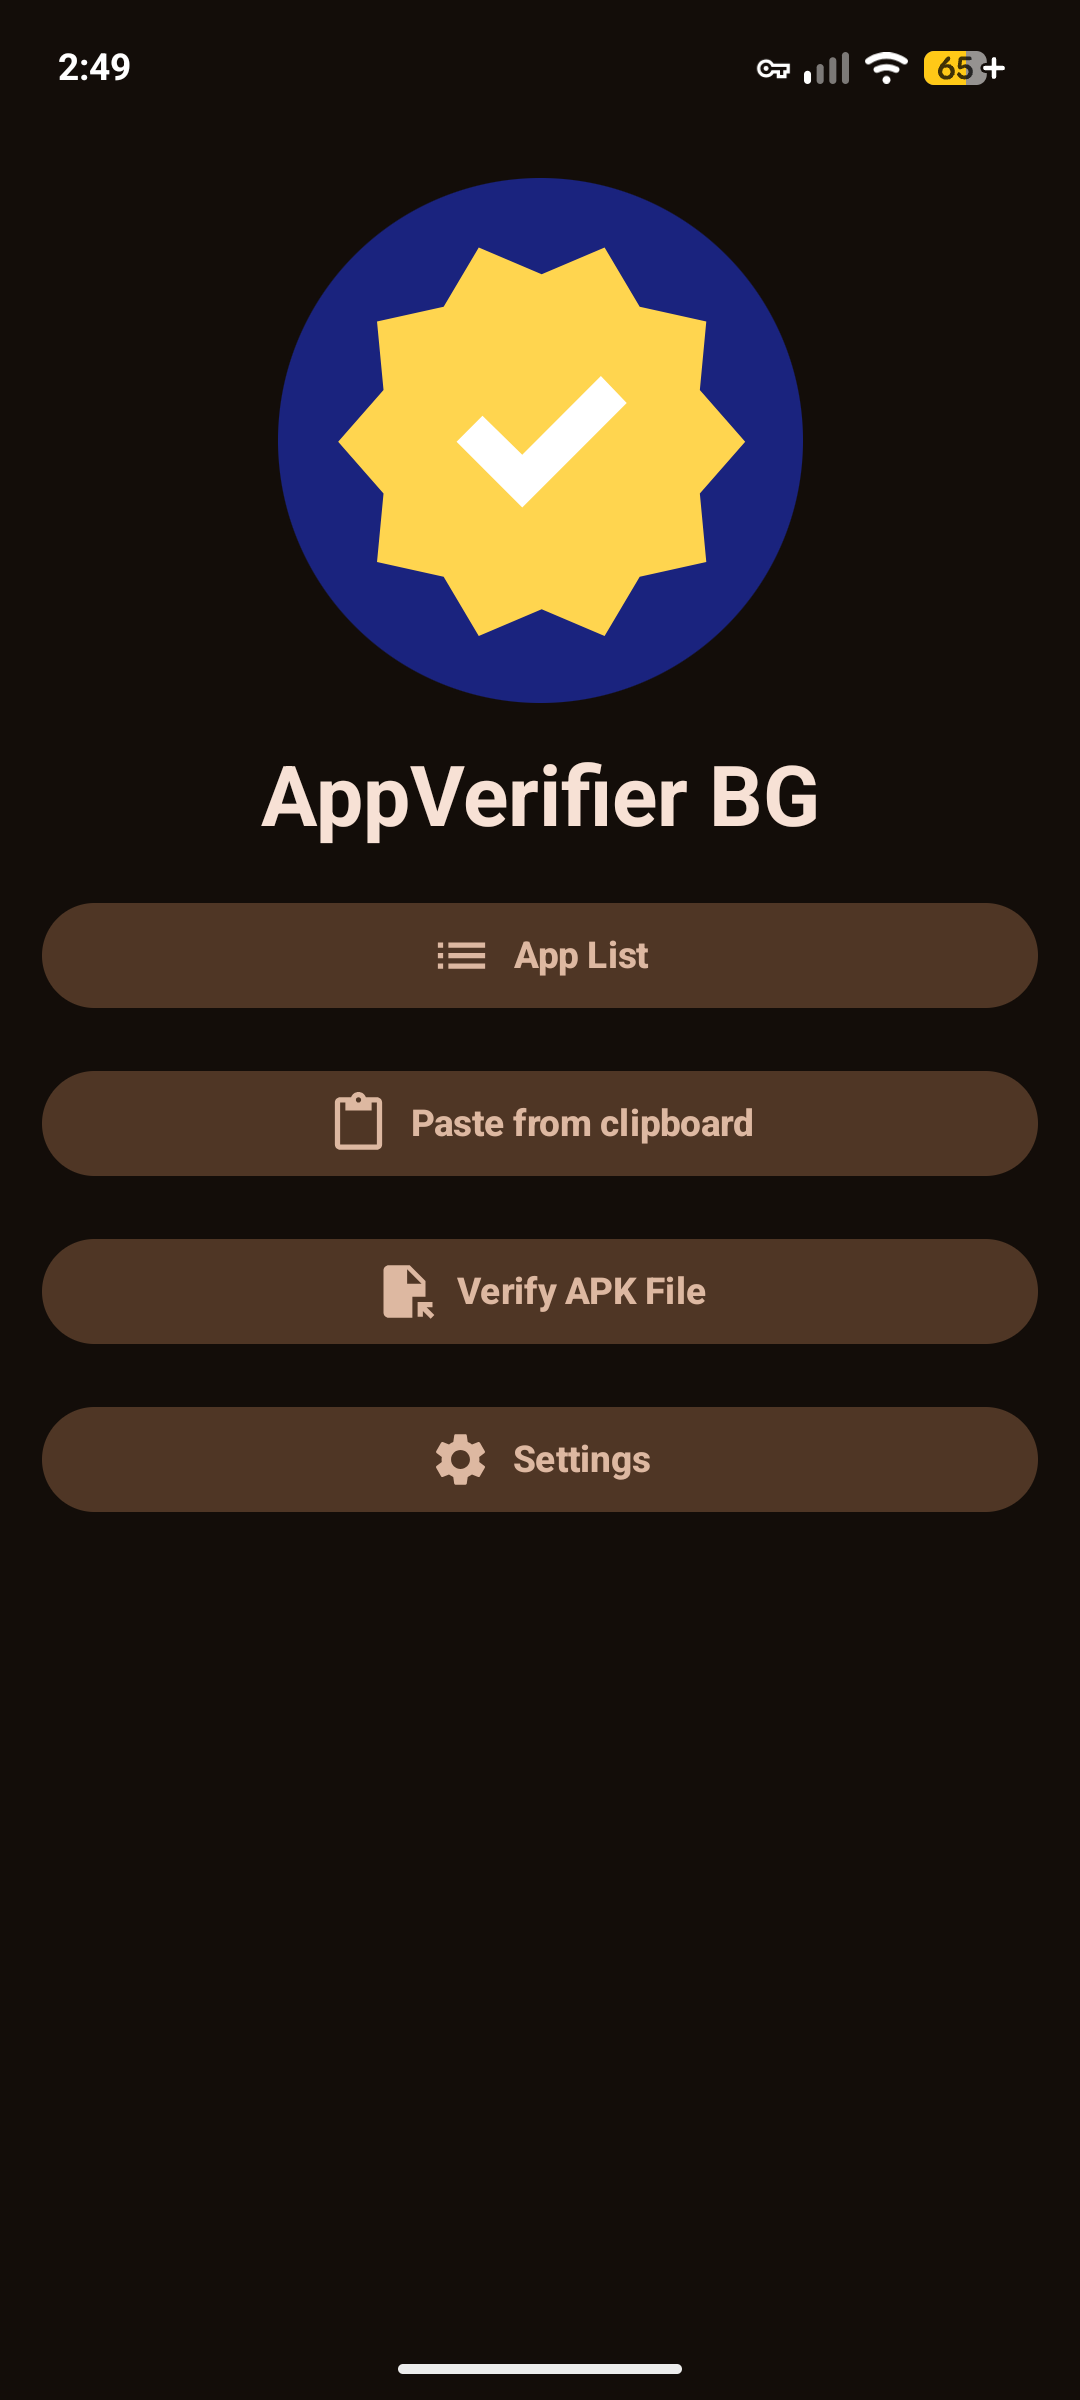
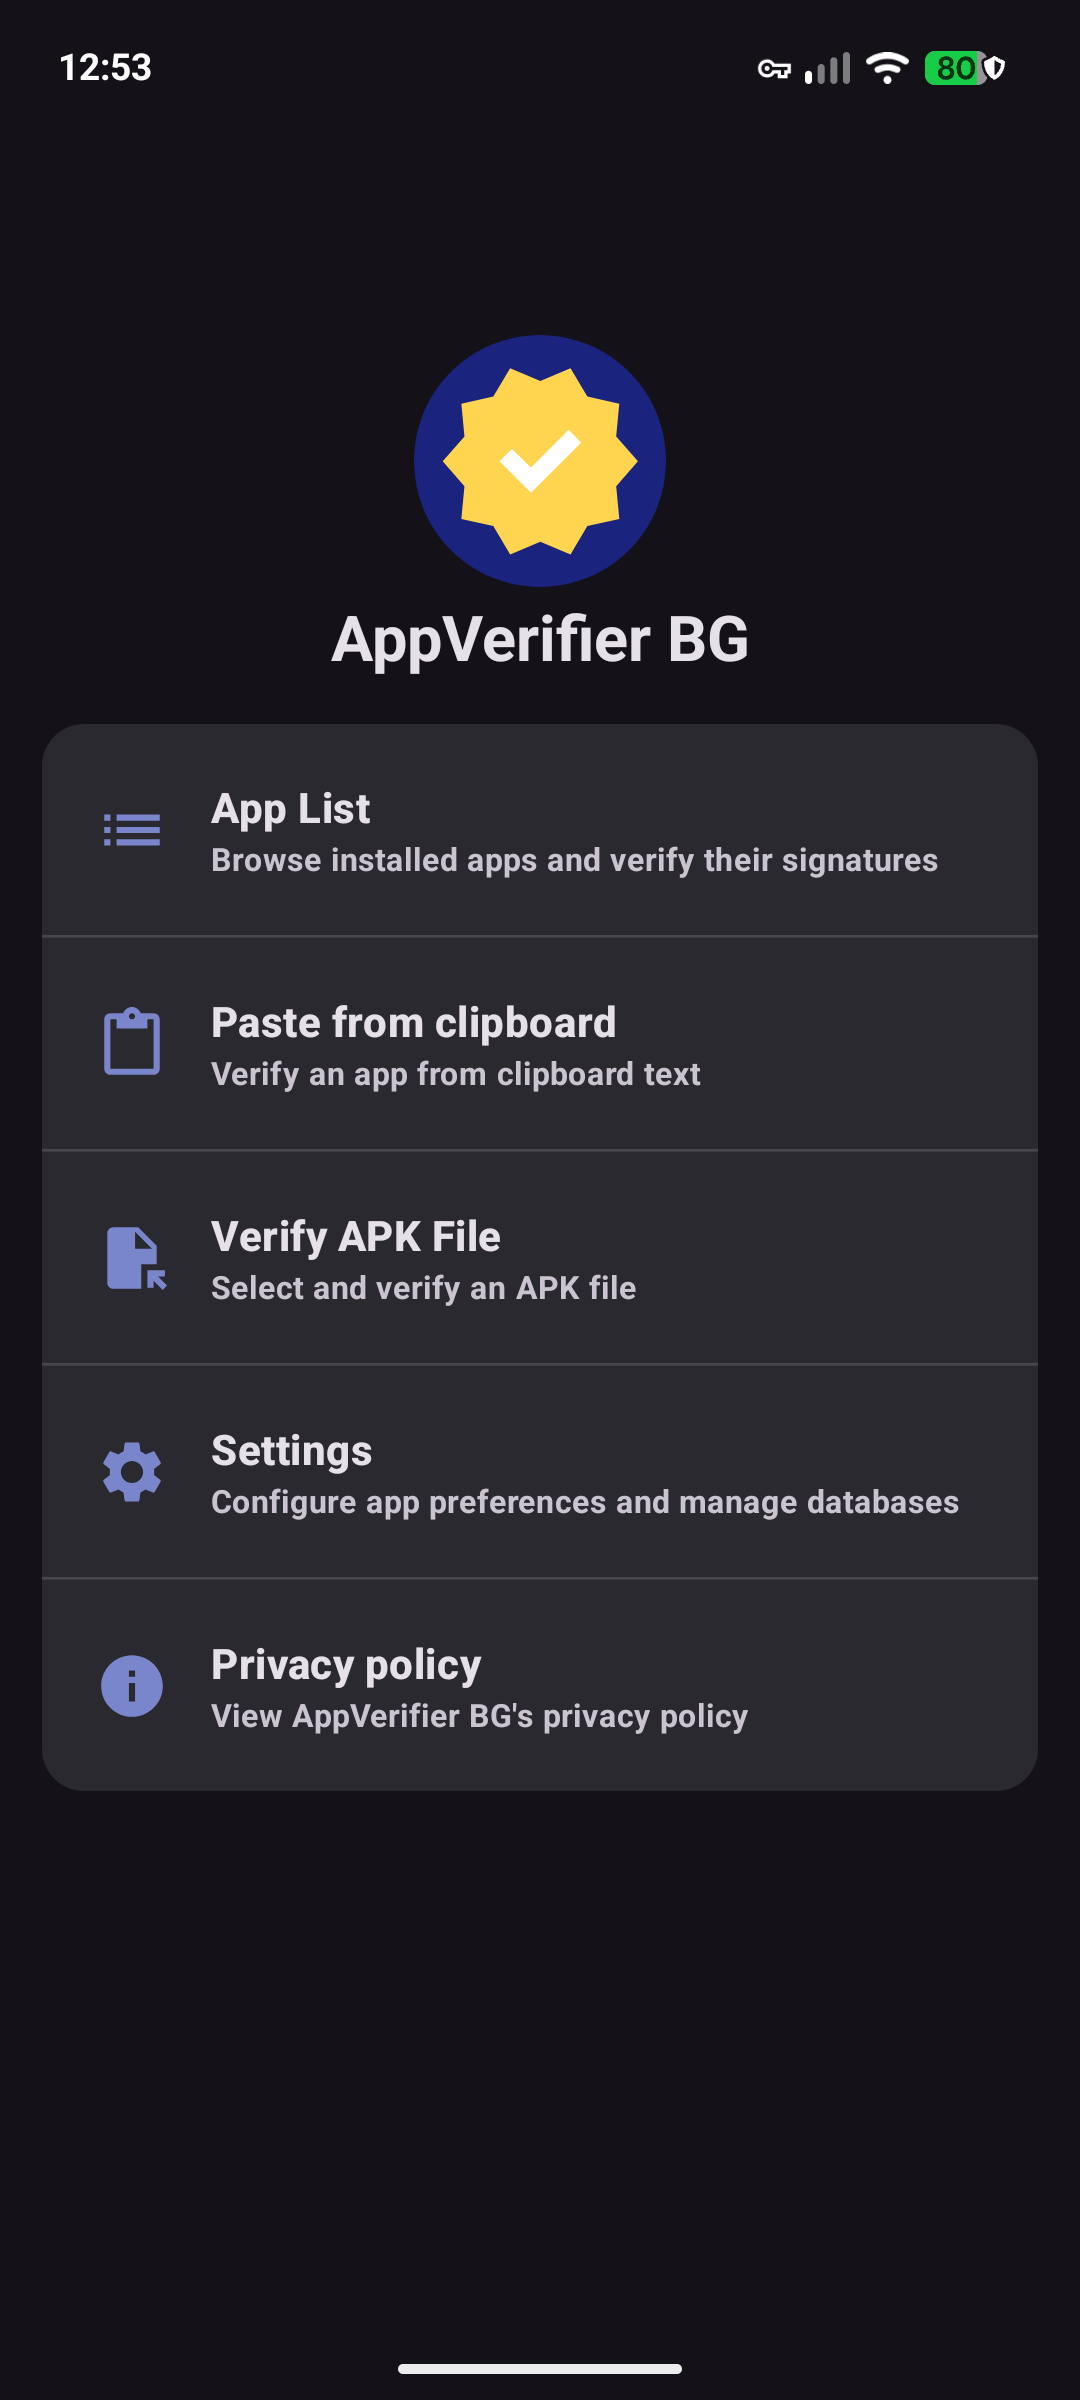
chore: bump to 0.2.0, update changelog and readme
Version 0.2.0:
- Blue/gold theme replaces dynamic color.
- Startup screen redesigned with card-based action items.
- Chip-based status indicators and collapsible hash comparison on verify screen.
- Privacy policy no longer gated on first launch.
- Async icon loading and O(1) database lookups.
- Long-press to remove user database entries or clipboard checkmarks.
- Updated fastlane screenshots.

diff --git a/README.md b/README.md
@@ -15,11 +15,11 @@ Verify installed apps against shared signature hashes, the internal database, or
 
 ## Verification
 
-Pasted hashes are checked for valid SHA-256 format and show a clear error if something's wrong. When verification fails, hashes are labeled "Expected" (what you pasted) and "Found" (on-device fingerprint) so you can tell which is which. Apps signed with debug certificates are flagged as insecure.
+Pasted hashes are checked for valid SHA-256 format and show a clear error if something's wrong. When verification fails, hashes are labeled "Expected" (what you pasted) and "Found" (on-device fingerprint) so you can tell which is which. Apps signed with debug certificates are flagged as insecure. Verification results use chip-based status indicators. The expected vs. found hash comparison has a collapsible toggle.
 
 ## App List
 
-Every installed user app shows status icons for internal database matches, user database entries, clipboard verification, and shared text matches all at a glance. Sort by name, database status, debug builds, clipboard verified, or shared text — pick whichever you need from the dropdown and it only shows modes with matching data. A filter chip hides everything except failures. The default sort order can be set in settings. A search bar lets you filter by name or package name.
+Every installed user app shows status icons for internal database matches, user database entries, clipboard verification, and shared text matches all at a glance. Sort by name, database status, debug builds, clipboard verified, or shared text — pick whichever you need from the dropdown and it only shows modes with matching data. A filter chip hides everything except failures. The default sort order can be set in settings. A search bar lets you filter by name or package name. Long-press an app with a user database entry or clipboard checkmark to remove it individually.
 
 ## Shared Text
 
@@ -27,11 +27,11 @@ Share verification info for several apps at once. Multiple entries separated by 
 
 ## Clipboard Verification
 
-Verify from clipboard with a single button on the startup screen. Successful clipboard verifications add a blue checkmark in the app list. The checkmark can be toggled on or off in settings and cleared separately.
+Verify from clipboard with a single button on the startup screen. Successful clipboard verifications add a blue checkmark in the app list. The checkmark can be toggled on or off in settings and cleared separately. Individual checkmarks can be removed by long-pressing the app in the list.
 
 ## User Database
 
-Save an app's verification info so you can check it later without needing the shared text. Add entries one at a time from the verification screen or bulk-add from a shared text filtered list. Supports import and export in JSON, text, and YAML formats (auto-detected on import, choose on export). Import lets you combine with existing entries or replace them, and shows a summary of what changed.
+Save an app's verification info so you can check it later without needing the shared text. Add entries one at a time from the verification screen or bulk-add from a shared text filtered list. Supports import and export in JSON, text, and YAML formats (auto-detected on import, choose on export). Import lets you combine with existing entries or replace them, and shows a summary of what changed. Entries can be removed individually by long-pressing the app in the list.
 
 **Plain text** — entries separated by a blank line:
 ```

diff --git a/CHANGELOG.md b/CHANGELOG.md
@@ -2,6 +2,15 @@
 
 Dates are based on UTC (releases typically around 2am UTC).
 
+## 2026-06-07
+
+- Blue/gold theme replaces dynamic color.
+- Startup screen redesigned with card-based action items.
+- Verification screen: chip-based status indicators, collapsible hash comparison toggle.
+- Privacy policy no longer forces acceptance on first launch. Moved from a gated startup screen to an action item on the main screen.
+- App list: async icon loading with LRU cache, O(1) internal database lookups.
+- Long-press an app to remove its user database entry or clipboard checkmark individually.
+
 ## 2026-06-05
 
 - Credits now include upstream AppVerifier, Lifecycle ViewModel Ktx, and Kotlin Coroutines Android.
